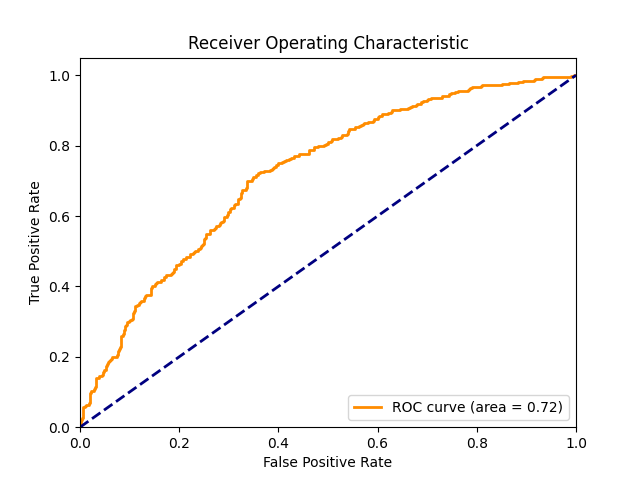
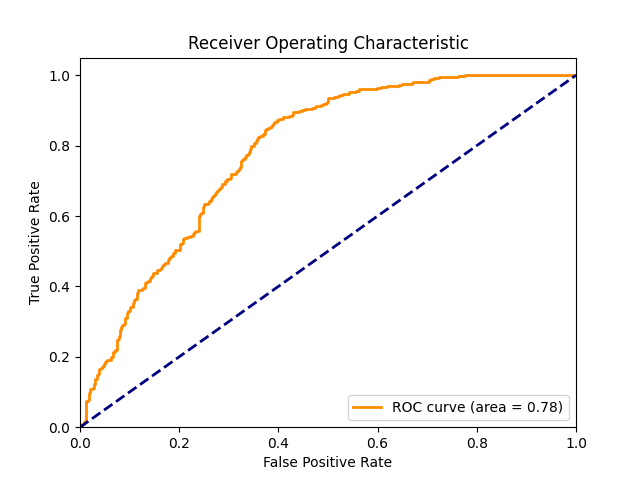
usage of ext siamse which performs 0.9 auc in prod

diff --git a/src/main.py b/src/main.py
@@ -1,6 +1,6 @@
 import torch
 import torch.optim as optim
-from network import SimpleSiamese, complexSiamese, complexSiameseNoPool, complexSiameseExtended
+from network import SimpleSiamese, complexSiamese, complexSiameseNoPool, complexSiameseExt
 from loss_functions import ConstractiveLoss, ConstractiveThresholdHingeLoss
 from loader import ShiftImage, aertsDataset, remindDataset, balance_dataset
 import os
@@ -312,7 +312,7 @@ if __name__ == "__main__":
                     image_ids=['t1_aligned_stripped'], save_dir=args.slice_dir,
                     skip=args.skip, tumor_sensitivity=0.30, transform=transform, load_slices=args.load_slices)
         subject_images = ConcatDataset([aertsImages, remindImages])
-        model_type = complexSiamese()
+        model_type = complexSiameseExt()
     pass
     # balance subject_images based on label
     
